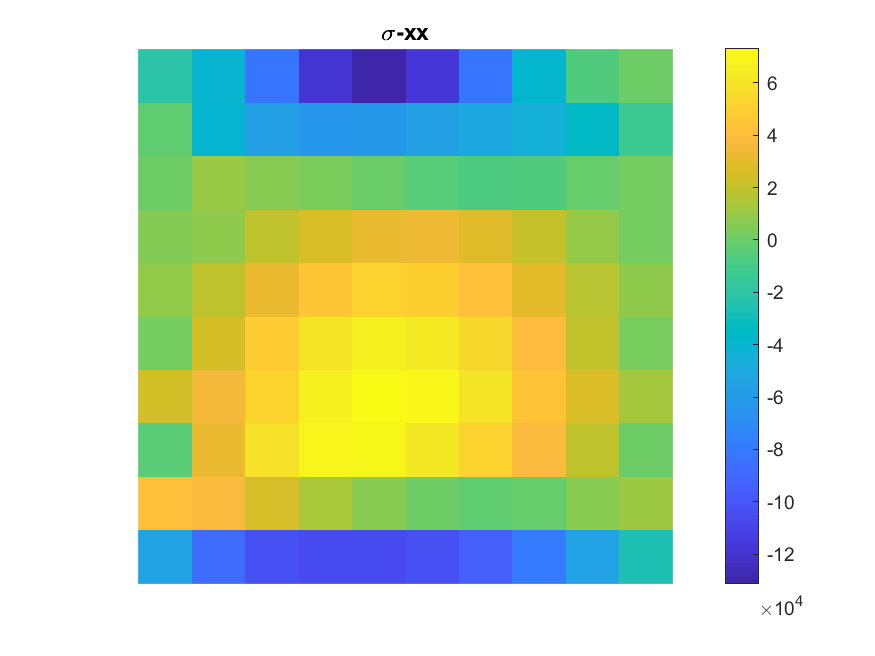
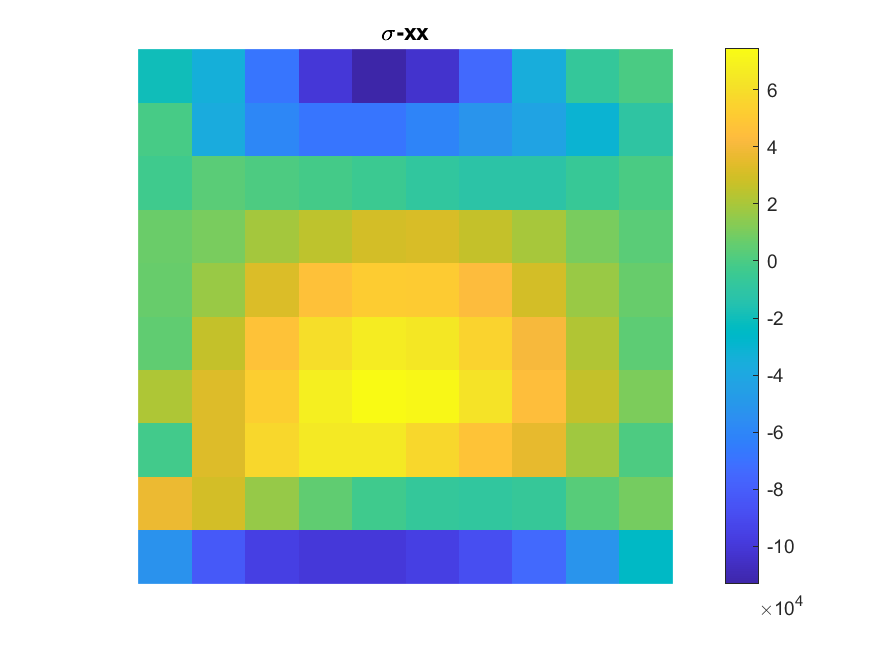
- added delta_error while loop termination criterion
- added plot of sigma-yy during iterations

diff --git a/functions/LEfe.m b/functions/LEfe.m
@@ -35,175 +35,3 @@ fext = mesh.fext;                                                           % ex
 uvw = linearSolver(K,mesh.bc,fext);                                         % displacement solution
 [sig,strain,uv,xy] = postPro(mesh,uvw);                                     % vectorised stress/displacement calculation
 
-%% Plotting and saving the results:
-
-% iterationPlotInterval = 10;                                                 % plot every e.g. 5 iterations, 5, 10, 15, ..
-% numberOfDetailedIteration = 3;                                              % plot every iteration until this limit, eg. 1, 2,..5 
-
-% mydir  = pwd;                                                               % current working directory
-% outputPath = strcat(mydir,'\iterations\');                                  % create iterations folder
-% 
-% coordinate_x = xy(:,1); coordinate_y = xy(:,2);
-% 
-% sigxx = sig(:,1);
-% min_sigxx = min(sigxx); max_sigxx = max(sigxx);
-% resolution = 0.01;
-% plotTitle = sprintf('Stress in the X direction-iteration %i',itnum);
-% figure(1); left_pos = 3; bott_pos = 12; %cm
-% % Add axis option (manual tuning):
-% saveDataPath = strcat(outputPath,'\sigxx\');
-% if itnum==1
-%     mkdir(saveDataPath);  
-% end
-% 
-% % Plot only 1,2, ..5, 15, 20, 25, ..
-% if (itnum <= numberOfDetailedIteration) || (rem(itnum,iterationPlotInterval)==0)
-%     surfPlot(coordinate_x,coordinate_y,sigxx,plotTitle,'', saveDataPath,resolution,...
-%         left_pos,bott_pos, min_sigxx, max_sigxx, 'colorbar_on');
-% end
-% 
-% sigyy = sig(:,2);
-% min_sigyy = min(sigyy); max_sigyy = max(sigyy);
-% resolution = 0.01;
-% plotTitle = sprintf('Stress in the Y direction-iteration %i',itnum);
-% figure(2); left_pos = 13; bott_pos = 12; %cm
-% % Add axis option (manual tuning):
-% saveDataPath = strcat(outputPath,'\sigyy\');
-% if itnum==1
-%     mkdir(saveDataPath);  
-% end
-% 
-% if (itnum <= numberOfDetailedIteration) || (rem(itnum,iterationPlotInterval)==0)
-%     surfPlot(coordinate_x,coordinate_y,sigyy,plotTitle,'', saveDataPath,resolution,...
-%         left_pos,bott_pos, min_sigyy, max_sigyy, 'colorbar_on');
-% end
-% 
-% sigxy = sig(:,3);
-% min_sigxy = min(sigxy); max_sigxy = max(sigxy);
-% resolution = 0.01;
-% plotTitle = sprintf('Shear stress-iteration %i',itnum);
-% figure(3); left_pos = 23; bott_pos = 12; %cm
-% % Add axis option (manual tuning):
-% saveDataPath = strcat(outputPath,'\sigxy\');
-% if itnum==1
-%     mkdir(saveDataPath);  
-% end
-% 
-% if (itnum <= numberOfDetailedIteration) || (rem(itnum,iterationPlotInterval)==0)
-%     surfPlot(coordinate_x,coordinate_y,sigxy,plotTitle,'', saveDataPath,resolution,...
-%         left_pos,bott_pos, min_sigxy, max_sigxy, 'colorbar_on');
-% end
-% 
-% strainxx = strain(:,1);
-% min_strainxx = min(strainxx); max_strainxx = max(strainxx);
-% resolution = 0.01;
-% plotTitle = sprintf('Strain in the X direction-iteration %i',itnum);
-% figure(4); left_pos = 3; bott_pos = 2; %cm
-% % Add axis option (manual tuning):
-% saveDataPath = strcat(outputPath,'\strainxx\');
-% if itnum==1
-%     mkdir(saveDataPath);  
-% end
-% 
-% if (itnum <= numberOfDetailedIteration) || (rem(itnum,iterationPlotInterval)==0)
-%     surfPlot(coordinate_x,coordinate_y,strainxx,plotTitle,'', saveDataPath,resolution,...
-%         left_pos,bott_pos, min_strainxx, max_strainxx, 'colorbar_on');
-% end
-% 
-% strainyy = strain(:,2);
-% min_strainyy = min(strainyy); max_strainyy = max(strainyy);
-% resolution = 0.01;
-% plotTitle = sprintf('Strain in the Y direction-iteration %i',itnum);
-% figure(5); left_pos = 13; bott_pos = 2; %cm
-% % Add axis option (manual tuning):
-% saveDataPath = strcat(outputPath,'\strainyy\');
-% if itnum==1
-%     mkdir(saveDataPath);  
-% end
-% 
-% if (itnum <= numberOfDetailedIteration) || (rem(itnum,iterationPlotInterval)==0)
-%     surfPlot(coordinate_x,coordinate_y,strainyy,plotTitle,'', saveDataPath,resolution,...
-%         left_pos,bott_pos, min_strainyy, max_strainyy, 'colorbar_on');
-% end
-% 
-% strainxy = strain(:,3);
-% min_strainxy = min(strainxy); max_strainxy = max(strainxy);
-% resolution = 0.01;
-% plotTitle = sprintf('Shear strain-iteration %i',itnum);
-% figure(6); left_pos = 23; bott_pos = 2; %cm
-% % Add axis option (manual tuning):
-% saveDataPath = strcat(outputPath,'\strainxy\');
-% if itnum==1
-%     mkdir(saveDataPath);  
-% end
-% 
-% if (itnum <= numberOfDetailedIteration) || (rem(itnum,iterationPlotInterval)==0)
-%     surfPlot(coordinate_x,coordinate_y,strainxy,plotTitle,'', saveDataPath,resolution,...
-%         left_pos,bott_pos, min_strainxy, max_strainxy, 'colorbar_on');
-% end
-% 
-% ux = uv(:,1);
-% min_ux = min(ux); max_ux = max(ux);
-% resolution = 0.01;
-% plotTitle = sprintf('Displacement in the X direction-iteration %i',itnum);
-% figure(7); left_pos = 3; bott_pos = -8; %cm
-% % Add axis option (manual tuning):
-% saveDataPath = strcat(outputPath,'\ux\');
-% if itnum==1
-%     mkdir(saveDataPath);  
-% end
-% 
-% if (itnum <= numberOfDetailedIteration) || (rem(itnum,iterationPlotInterval)==0)
-%     surfPlot(coordinate_x,coordinate_y,ux,plotTitle,'', saveDataPath,resolution,...
-%         left_pos,bott_pos, min_ux, max_ux, 'colorbar_on');
-% end
-% 
-% vy = uv(:,2);
-% min_vy = min(vy); max_vy = max(vy);
-% resolution = 0.01;
-% plotTitle = sprintf('Displacement in the Y direction-iteration %i',itnum);
-% figure(8); left_pos = 23; bott_pos = -8; %cm
-% % Add axis option (manual tuning):
-% saveDataPath = strcat(outputPath,'\vy\');
-% if itnum==1
-%     mkdir(saveDataPath);  
-% end
-% 
-% if (itnum <= numberOfDetailedIteration) || (rem(itnum,iterationPlotInterval)==0)
-%     surfPlot(coordinate_x,coordinate_y,vy,plotTitle,'', saveDataPath,resolution,...
-%         left_pos,bott_pos, min_vy, max_vy, 'colorbar_on');
-% end
-% 
-% E = mesh.E;
-% min_E = min(E); max_E = max(E);
-% resolution = 0.01;
-% plotTitle = sprintf('Youngs modulus-iteration %i',itnum);
-% figure(9); left_pos = 9; bott_pos = 12; %cm
-% % Add axis option (manual tuning):
-% saveDataPath = strcat(outputPath,'\E\');
-% if itnum==1
-%     mkdir(saveDataPath);  
-% end
-% 
-% if (itnum <= numberOfDetailedIteration) || (rem(itnum,iterationPlotInterval)==0)
-%     surfPlot(coordinate_x,coordinate_y,E,plotTitle,'', saveDataPath,resolution,...
-%         left_pos,bott_pos, min_E, max_E, 'colorbar_on');
-% end   
-% 
-% v = mesh.v;
-% min_v = min(v); max_v = max(v);
-% resolution = 0.01;
-% plotTitle = sprintf('Poisson ratio-iteration %i',itnum);
-% figure(10); left_pos = 19; bott_pos = 12; %cm
-% % Add axis option (manual tuning):
-% saveDataPath = strcat(outputPath,'\v\');
-% if itnum==1
-%     mkdir(saveDataPath);  
-% end
-% 
-% if (itnum <= numberOfDetailedIteration) || (rem(itnum,iterationPlotInterval)==0)
-%     surfPlot(coordinate_x,coordinate_y,v,plotTitle,'', saveDataPath,resolution,...
-%         left_pos,bott_pos, min_v, max_v, 'colorbar_on');
-% end
-
-end

diff --git a/main.m b/main.m
@@ -14,7 +14,8 @@
 %   - Strain.xlsx   - file with the known strain information
 %--------------------------------------------------------------------------
 % Ouput(s):
-%   - 
+%   - .\results\Results.xlsx - Excell file with numeric results
+%   - .\results\epsilon-xx - input.png  - images with results
 %--------------------------------------------------------------------------
 % See also:
 % setupmesh         - problem set up 
@@ -45,6 +46,7 @@ itMax = 30;                                                                 % ma
 tol   = 1e-9;                                                               % tolerance
 
 %% Set up the physical model (based on the user input and characteristics of the supplied data):
+% *************************************************************************
 nels_x = 10;                                                                % number of elements in the x direction
 nels_y = nels_x;                                                            % number of elements in the y direction
 nels = nels_x * nels_y;                                                     % total number of elements
@@ -87,10 +89,6 @@ v_init = -eps_xx_avg/eps_yy_avg;                                            % av
 %% Set FE parameters based on the user input and characteristics of the supplied data:
 mesh = setupmesh(l_x,l_y,nels_x,nels_y,pressure,E_init,v_init);             % initialize mesh  
 
-% setup information, it should be a function of input variables.
-% mesh = [coord,etpl,fext,bc,ngp,E,v]
-% E,v variables are updated at each iteration in the loop below
-
 %% Set data settings:
 % *******************
 % switch for saving incremental, iterative data and plots (for debugging
@@ -104,17 +102,28 @@ mesh = setupmesh(l_x,l_y,nels_x,nels_y,pressure,E_init,v_init);             % in
 
 %% Material iterations
 error = 2*tol;                                                              % initial error
+delta_error = -tol;                                                         % initialize delta_error as negative number to start while loop
 itnum = 0;                                                                  % zero iteration counter
 
-while error > tol && itnum < itMax                                          % while loop 
+while error > tol && itnum < itMax && delta_error < 0                       % while loop (as long as error is decreasing) 
     itnum = itnum+1;                                                        % iteration counter
     fprintf('\n%s%8i\n','   iteration number     ',itnum);                  % print iteration number
     [sig,epsH,~] = LEfe(mesh,itnum);                                        % finite element solver
     [E,v] = updateElasticProp(sig,epsA);                                    % solve for elastic properties
     mesh.E = E;                                                             % update Young's modulus
     mesh.v = v;                                                             % update Poisson's ratio
+    error_old = error;                                                      % error from previous iteration
     error = norm(epsH-epsA)/norm(epsA);                                     % normalised strain error
+    if itnum == 1
+        delta_error = -2*tol;                                               % keep delta_error negative to keep the while loop going
+    else
+        delta_error = error - error_old;                                    % check if delta_error < 0, which means the error is decreasing
+    end
     fprintf('%s%8.3e\n','   error                   ',error);               % return strain error
+    figure(1001);                                                           % figure number
+    matrix = vector2matrix(sig(:,2),nels_y,nels_x);                         % convert vector to matrix for plotting
+    imagesc(matrix);colorbar; colormap; axis equal; axis off;               % plot color map 
+    drawnow limitrate nocallbacks;   title( '\sigma - yy' );                % drawnow with 20 frames per second limit
 end
 
 %% Save final results to Excel file
